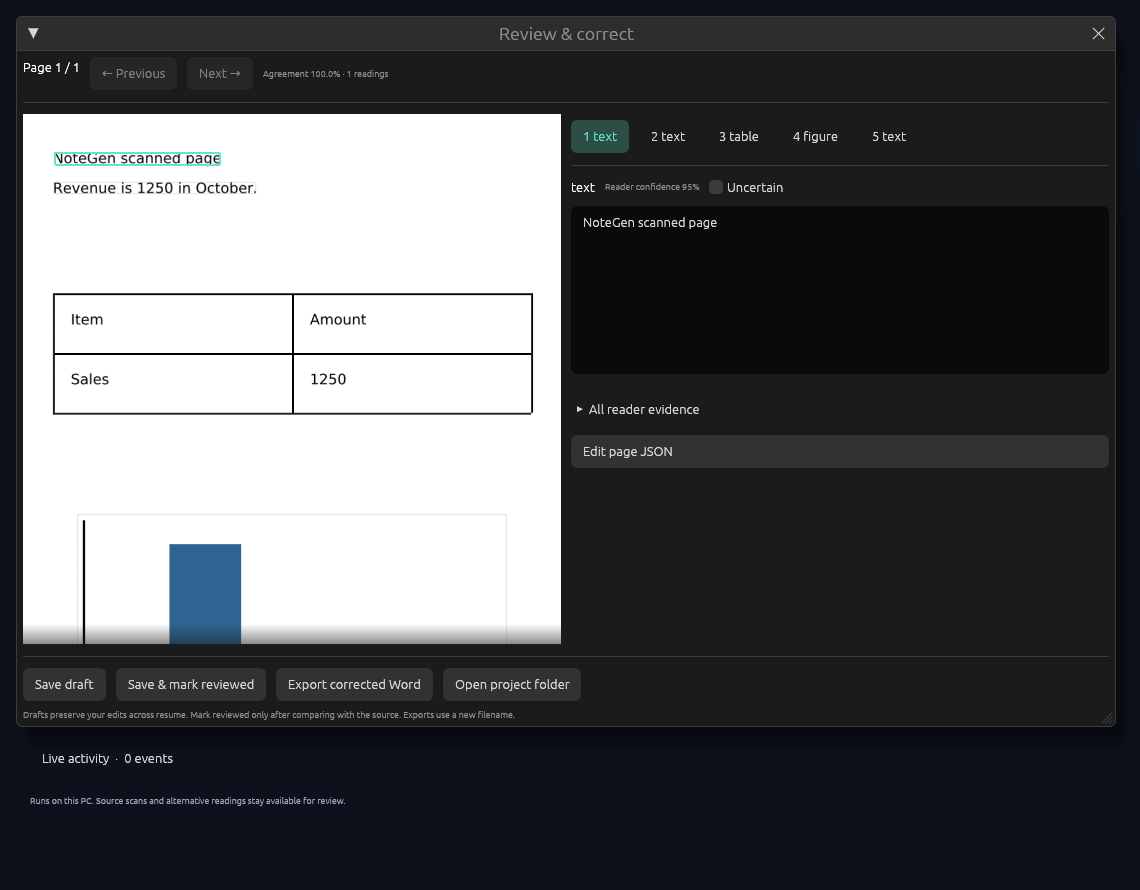
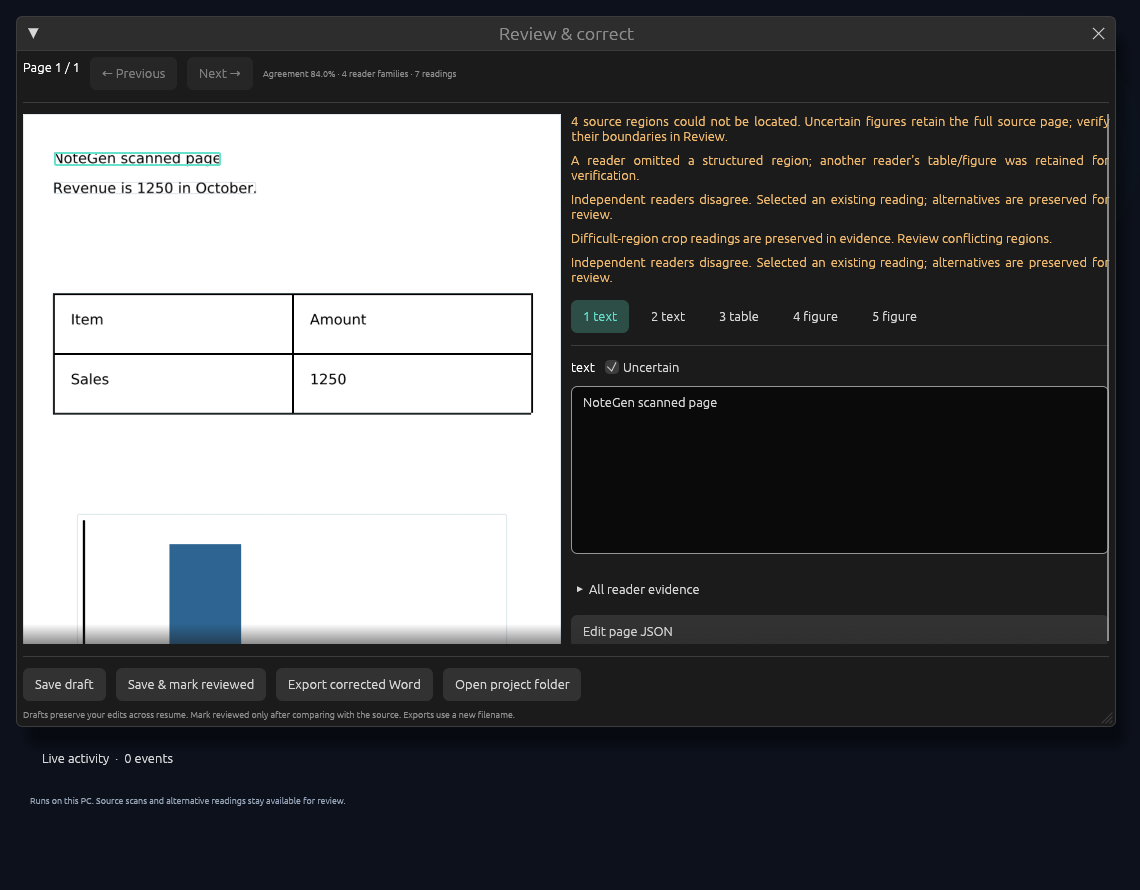
Clarify independent agreement and record real Maximum Accuracy acceptance
Single-family and duplicate-crop evidence cannot display a percentage as independent agreement. Keep reader agreement distinct from measured accuracy. A native release-CLI conversion with Tesseract, LightOnOCR-3, Qwen3.5 and GLM completed with seven readings, a recreated Word table and retained diagram images; capture its actual review window. All 65 ordinary tests and strict format/clippy pass locally.

diff --git a/rust/src/desktop.rs b/rust/src/desktop.rs
@@ -98,6 +98,23 @@ pub fn save_review(project: &Project, page: &mut Page, approved: bool) -> Result
     page.reviewed = approved;
     project.save(page)
 }
+fn evidence_label(page: &Page) -> String {
+    let families = page
+        .candidates
+        .iter()
+        .map(|c| c.family.as_str())
+        .collect::<std::collections::BTreeSet<_>>()
+        .len();
+    match families {
+        0 => "No reader evidence".into(),
+        1 => "Single reader family · independent agreement unavailable".into(),
+        _ => format!(
+            "Agreement {:.1}% · {families} reader families · {} readings",
+            page.agreement * 100.,
+            page.candidates.len()
+        ),
+    }
+}
 enum Message {
     Event(Event),
     Complete(Box<Completed>),
@@ -1276,7 +1293,7 @@ impl Desktop {
                 if ui.add_enabled(r.index+1<r.project.manifest.pages.len() && !r.dirty,egui::Button::new("Next →")).clicked(){
                     next=Some(r.index+1);
                 }
-                ui.small(format!("Agreement {:.1}% · {} readings",r.page.agreement*100.,r.page.candidates.len()));
+                ui.small(evidence_label(&r.page)).on_hover_text("Reader agreement is not measured accuracy. Crops from one model family do not provide independent agreement; compare uncertain content with the source.");
                 if r.dirty{
                     ui.colored_label(Color32::from_rgb(241,187,111),"Unsaved edits");
                 }
@@ -1845,6 +1862,35 @@ mod acceptance {
         );
         assert!(!result.shapes.is_empty());
         result.textures_delta.clear();
+    }
+    #[test]
+    fn single_reader_display_never_implies_independent_agreement() {
+        let mut page = Page {
+            agreement: 1.,
+            ..Default::default()
+        };
+        assert_eq!(evidence_label(&page), "No reader evidence");
+        let candidate = Candidate {
+            region: None,
+            model_id: "ocr".into(),
+            family: "one".into(),
+            view: "full".into(),
+            content: PageContent::default(),
+            reliability: 1.,
+        };
+        page.candidates.push(candidate.clone());
+        assert!(evidence_label(&page).contains("unavailable"));
+        assert!(!evidence_label(&page).contains("100"));
+        page.candidates.push(Candidate {
+            view: "crop-0".into(),
+            ..candidate.clone()
+        });
+        assert!(evidence_label(&page).contains("unavailable"));
+        page.candidates.push(Candidate {
+            family: "two".into(),
+            ..candidate
+        });
+        assert!(evidence_label(&page).contains("2 reader families"));
     }
     #[test]
     fn every_advanced_tab_renders_and_logs_are_bounded() {

diff --git a/docs/TESTING.md b/docs/TESTING.md
@@ -13,9 +13,9 @@ for exact Windows/Linux results, native visual evidence and the executable downl
 | 3 | 39 tests with all features/targets + format/clippy: Advanced tabs, text/table/figure review, light/dark/reduced motion, queue/worker lifecycle, bounded logs, human corrections |
 | 4 | Additional real-model mixed-format regression, CPU-only isolation, manual selection, Balanced scheduling and draft-save protection; Windows/Linux/package gates in CI |
 | 5 | 61 ordinary tests + format/clippy locally: motion/reduced-motion render comparisons, animation timing and frame budgets, backward-compatible appearance settings, invalid AI grounding recovery and raw response evidence |
-| 6 | 64 ordinary tests + format/clippy locally: Fast conversion with damaged/invalid unused AI registrations, selected-reader checksum rejection, handwriting/preset validation and CLI settings preservation |
+| 6 | 65 ordinary tests + format/clippy locally: Fast conversion with damaged/invalid unused AI registrations, selected-reader checksum rejection, handwriting/preset validation, CLI settings preservation and honest single-family agreement labels |
 
-The current source passes all 64 ordinary tests with all features/targets on Linux,
+The current source passes all 65 ordinary tests with all features/targets on Linux,
 plus strict format and clippy checks. The native desktop was started under an authenticated
 virtual X display; workspace, Advanced and review were captured, and the actual scanning
 graphic was recorded for four seconds. The screenshot harness decodes its output before
@@ -46,6 +46,12 @@ fixture. NOTEGEN_FIXTURE_DIR exports its PNG/PDF for independent package tests.
   Valid coordinates remain unchanged; malformed table structure is still rejected.
   Raw reader responses are retained separately under the local project/runtime
   `responses` directory for diagnosis, without putting document text in live log messages.
+- A release-CLI Maximum Accuracy conversion completed with Tesseract, LightOnOCR-3,
+  Qwen3.5 and GLM: four full-page families plus three crop readings. Native Word XML
+  contains the reconstructed table (1250) and two retained source images. This run
+  took 197.69 seconds on CPU with eight inference threads and a resumed printed-OCR
+  checkpoint; it is not a cold-start benchmark. Agreement was 84.0%, and source/grounding
+  warnings correctly required review. The native review capture shows this real result.
 
 These demonstrate native inference/adapters on synthetic print, tables and one simple
 chart. They do not measure broad handwriting accuracy or diagram understanding. Model revisions/SHA256 are in

diff --git a/docs/RUST_PLAN.md b/docs/RUST_PLAN.md
@@ -32,11 +32,12 @@ are required evidence. No universal accuracy or zero-error claim is made.
    Includes eased interactions, scan/orbit graphics, progress sheen, completion drawing,
    animated drawers/windows, reduced motion and focus-aware frame budgets. Real Qwen3.5
    2B full-page/crop inference passes; ungrounded AI boxes preserve source and require review.
-6. Preset isolation and handwriting safeguards. Gate passed locally: 64 ordinary tests
+6. Preset isolation and handwriting safeguards. Gate passed locally: 65 ordinary tests
    plus format/clippy. Fast skips unused AI registrations and weight hashing; AI modes
    verify the selected readers. The GUI selects Accuracy when handwriting is enabled
    from Fast, and conflicting CLI/JSON settings return NG102. CLI settings retain an
-   existing handwriting request.
+   existing handwriting request. A single reader family never displays a percentage
+   as independent agreement. A real four-family Maximum conversion and Word export passed.
 
 Every gate must pass before the following stage is declared complete. GPU quality tests
 and private handwriting corpus acceptance are distinct from mocked/protocol tests.

diff --git a/README.md b/README.md
@@ -79,7 +79,7 @@ conversions. Setup pins runtime b11998 and immutable model revisions/checksums.
 Real PDFium/Tesseract conversion and actual GLM-OCR/LightOnOCR-3/Qwen3.5 2B CPU inference have
 been exercised on a raster-only printed scan and accounting table. Tests cover model
 protocols, faults/cancellation, memory profiles, consensus, persistence, Word structure
-and native desktop rendering. The current source passes 64 ordinary Rust tests,
+and native desktop rendering. The current source passes 65 ordinary Rust tests,
 format and clippy locally. Windows/Linux CI compiles the executables and smoke-tests
 the portable package. See [exact evidence and limits](docs/TESTING.md).
 
